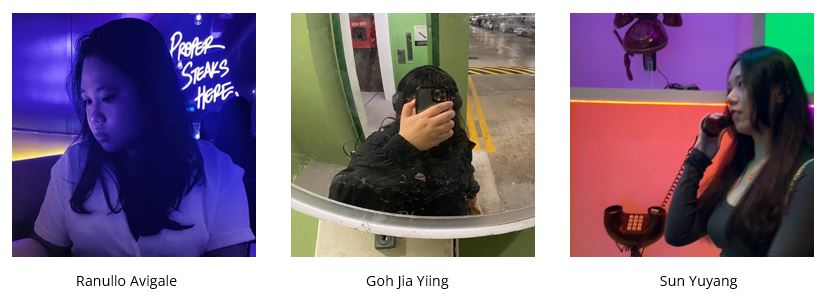
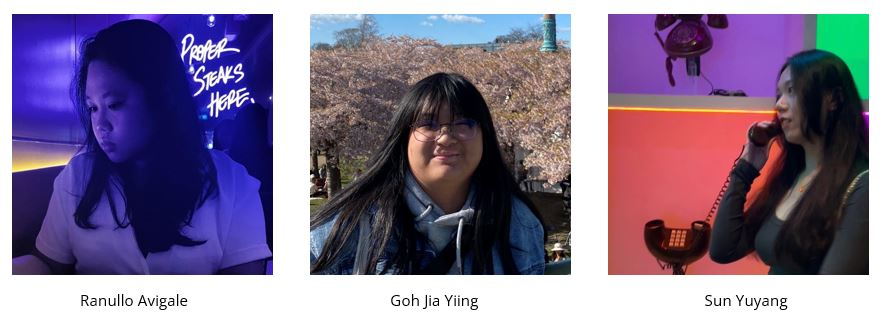
update

diff --git a/_site/findings.html b/_site/findings.html
@@ -185,12 +185,20 @@ ul.task-list li input[type="checkbox"] {
 </section>
 <section id="literature-review" class="level2">
 <h2 class="anchored" data-anchor-id="literature-review">Literature Review</h2>
-<p>Our team has conducted several literatures reviews and found that out Sentinel-2A data has similar spectral bands and geometric accuracy&nbsp;to Landsat 8. (EROS, 2019) Readings also suggest that when the red-edge bands in both datasets are being compared, a combination of both Landsat-8 and Sentinel-2 red-edge bands resulted in a higher accuracy index than Landsat-8 alone. (Gerald Forkuor et al, 2018) Therefore, we wanted to use the comparison study as an opportunity to explore the data insights that both datasets could be used to uncover.</p>
+<p>Our team has conducted several literatures reviews and found that out Sentinel-2A data has similar spectral bands and geometric accuracy&nbsp;to Landsat 8. (EROS, 2019) <a href="#fn1" class="footnote-ref" id="fnref1" role="doc-noteref"><sup>1</sup></a> Readings also suggest that when the red-edge bands in both datasets are being compared, a combination of both Landsat-8 and Sentinel-2 red-edge bands resulted in a higher accuracy index than Landsat-8 alone. (Gerald Forkuor et al, 2018)<a href="#fn2" class="footnote-ref" id="fnref2" role="doc-noteref"><sup>2</sup></a></p>
+<p>Therefore, we wanted to use the comparison study as an opportunity to explore the data insights that both datasets could be used to uncover.</p>
 
 
 </section>
 
-</main> <!-- /main -->
+
+<div id="quarto-appendix" class="default"><section id="footnotes" class="footnotes footnotes-end-of-document" role="doc-endnotes"><h2 class="anchored quarto-appendix-heading">Footnotes</h2>
+
+<ol>
+<li id="fn1"><p>USGS EROS Archive - Sentinel-2 - Comparison of Sentinel-2 and Landsat | U.S. Geological Survey. (2019, March 1). USGS.gov. From https://www.usgs.gov/centers/eros/science/usgs-eros-archive-sentinel-2-comparison-sentinel-2-and-landsat<a href="#fnref1" class="footnote-back" role="doc-backlink">↩</a></p></li>
+<li id="fn2"><p>Gerald Forkuor, Kangbeni Dimobe, Idriss Serme &amp; Jerome Ebagnerin Tondoh (2018) Landsat-8 vs.&nbsp;Sentinel-2: examining the added value of sentinel-2’s red-edge bands to land-use and land-cover mapping in Burkina Faso, GIScience &amp; Remote Sensing, 55:3, 331-354, DOI: 10.1080/15481603.2017.1370169<a href="#fnref2" class="footnote-back" role="doc-backlink">↩</a></p></li>
+</ol>
+</section></div></main> <!-- /main -->
 <script id="quarto-html-after-body" type="application/javascript">
 window.document.addEventListener("DOMContentLoaded", function (event) {
   const toggleBodyColorMode = (bsSheetEl) => {

diff --git a/_site/analysis.html b/_site/analysis.html
@@ -180,8 +180,8 @@ ul.task-list li input[type="checkbox"] {
 </section>
 <section id="confusion-matrix" class="level4">
 <h4 class="anchored" data-anchor-id="confusion-matrix">Confusion Matrix</h4>
-<p><img src="images/l8_cm.jpg" class="img-fluid" width="430"></p>
-<p>Based on the confusion matrix, we can see that Bare land, Built-up 2 and Impervious surfaces are doing poorly.</p>
+<p><img src="images/l8_cm.jpg" class="img-fluid" width="430"> Evaluation of confusion matrix</p>
+<p>Based on the confusion matrix, we can see that Bare land, Built-up 2 and Impervious surfaces are doing poorly. As for the Built-up 3, Managed vegetation, Inland water, they are able to distinguish the respective classes well (&gt; 70%).</p>
 <p><img src="images/l8_confusion%20matrix.jpg" class="img-fluid"></p>
 </section>
 <section id="kappa-hatoverall" class="level4">
@@ -197,7 +197,8 @@ ul.task-list li input[type="checkbox"] {
 </section>
 <section id="confusion-matrix-1" class="level4">
 <h4 class="anchored" data-anchor-id="confusion-matrix-1">Confusion Matrix</h4>
-<p><img src="images/s2_mc.jpg" class="img-fluid" width="430"></p>
+<p><img src="images/s2_mc.jpg" class="img-fluid" width="430"> Evaluation of confusion matrix</p>
+<p>Based on the confusion matrix, we can see that Natural vegetation, Built-up 2 and Bare land are having difficulty differentiating, whereas Impervious surfaces, Water body and Inland water are able to differentiate amongst the pixels well.</p>
 <p>Confusion Matrix <img src="images/s2_confusionmatrix.jpg" class="img-fluid"></p>
 </section>
 <section id="kappa-hatoverall-1" class="level4">

diff --git a/_site/about.html b/_site/about.html
@@ -140,12 +140,18 @@ ul.task-list li input[type="checkbox"] {
 <p>About G2T11 ❤🤗</p>
 <p>We are a team of 3 girls, consisting of:</p>
 <p><img src="images/team_photo.jpg" class="img-fluid"></p>
+<p>Townhall Presentation</p>
+<div class="quarto-figure quarto-figure-center">
+<figure class="figure">
+<p><img src="images/team_photo_2.jpg" class="img-fluid figure-img" width="375"></p>
+</figure>
+</div>
 <hr>
 <table class="table">
 <thead>
 <tr class="header">
 <th>Authors</th>
-<th>Afiliations</th>
+<th>Affiliations</th>
 <th>Email Address</th>
 </tr>
 </thead>
